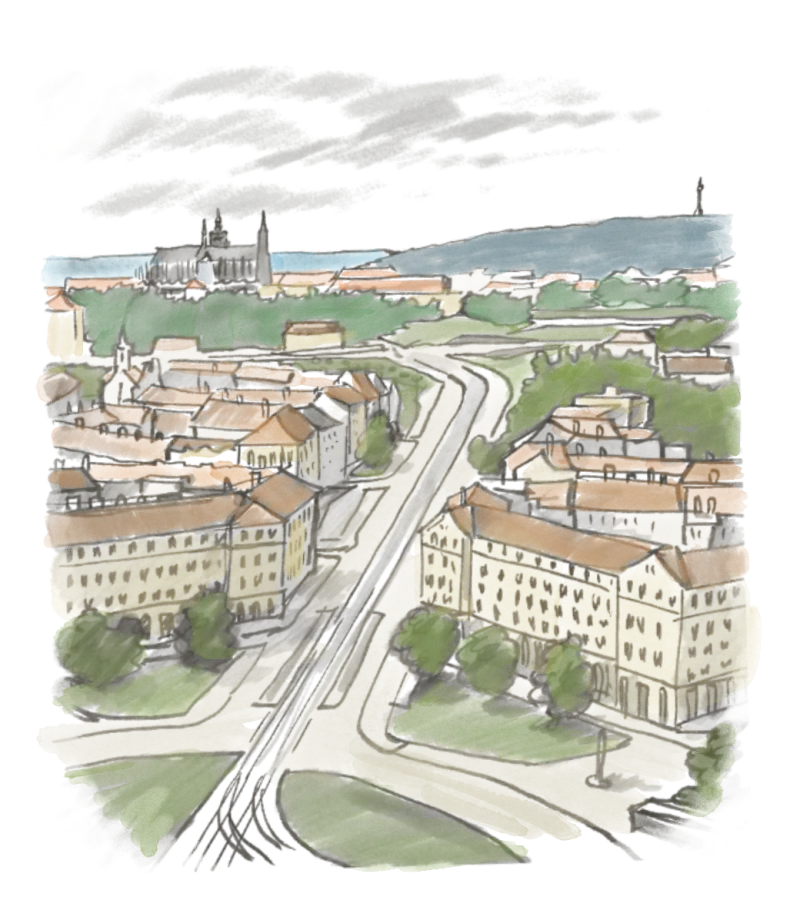
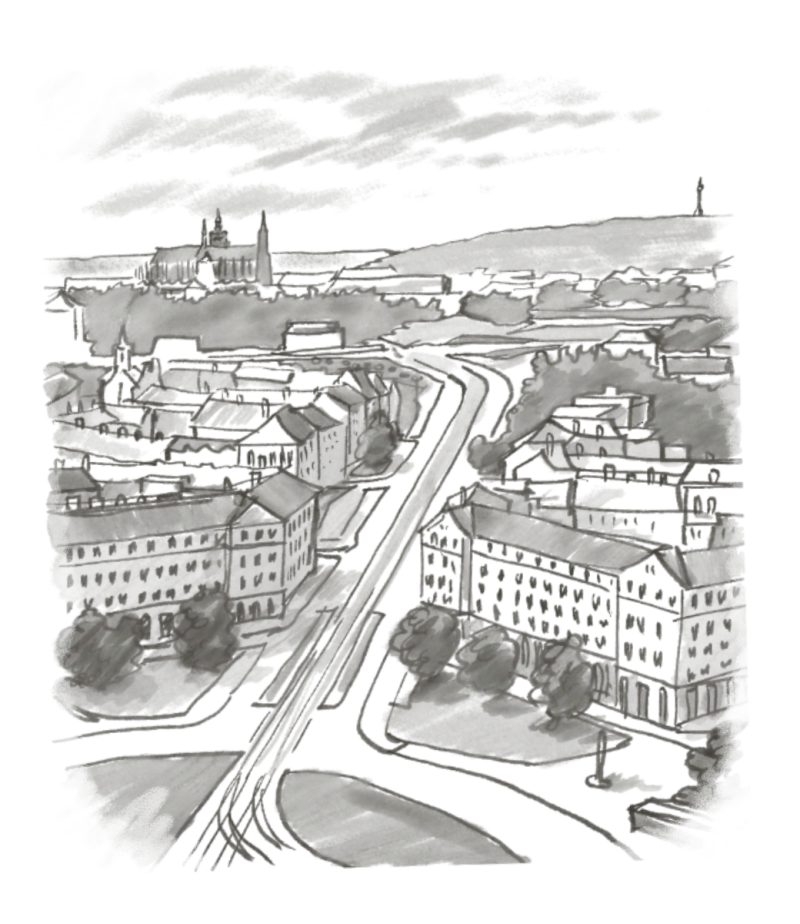
public page design updates

Changed region(s): [[0.0312, 0.2121, 0.9688, 0.9697], [0.3438, 0.697, 0.375, 0.7273], [0.25, 0.2727, 0.2812, 0.303]]

diff --git a/src/components/public/DrawingPicker.vue b/src/components/public/DrawingPicker.vue
@@ -16,7 +16,7 @@ const hero = defineModel('hero', { type: Object, default: () => ({}) })
 const emit = defineEmits(['edit-trail'])
 
 const HERO_SIZES = {
-  narrow: 'jako teď (960 px)',
+  narrow: 'úzké (960 px)',
   text: 'na šířku textu',
   bleed: 'přes celou šířku',
 }
@@ -51,9 +51,11 @@ const open = ref(false)
 
 // Colour intensity of the photos (CSS saturate(), 1 = as taken), applied
 // through --photo-saturation on the page root.
-const saturation = ref(1)
+// Matches the default in PolaroidPhoto.
+const PHOTO_SATURATION = 0.95
+const saturation = ref(PHOTO_SATURATION)
 try {
-  saturation.value = Number(localStorage.getItem(SATURATION_KEY)) || 1
+  saturation.value = Number(localStorage.getItem(SATURATION_KEY)) || PHOTO_SATURATION
 } catch {
   // Private window.
 }
@@ -133,7 +135,7 @@ function side(slot) {
 function reset() {
   overrides.value = {}
   hero.value = {}
-  saturation.value = 1
+  saturation.value = PHOTO_SATURATION
 }
 </script>
 

diff --git a/src/components/public/HomeHero.vue b/src/components/public/HomeHero.vue
@@ -12,12 +12,12 @@ import grey2200 from '@/assets/public/skaly-sede-2200.webp'
 // (DrawingPicker); the drawing (open space above the rocks) is never cropped.
 const props = defineProps({
   // 'narrow' (960 px) | 'text' (the text column) | 'bleed' (edge to edge, ≤ 1600 px)
-  size: { type: String, default: 'narrow' },
+  size: { type: String, default: 'text' },
   // 'above' | 'sky' (in the sky, centred) | 'sky-right' (in the sky right of the
   // rocks) | 'split' (first line in the sky, second below the drawing)
   layout: { type: String, default: 'sky-right' },
   // 'colour' | 'grey' — the same drawing in colour or in pencil grey
-  palette: { type: String, default: 'colour' },
+  palette: { type: String, default: 'grey' },
 })
 
 const DRAWINGS = {

diff --git a/src/views/PublicHomeView.vue b/src/views/PublicHomeView.vue
@@ -61,14 +61,14 @@ const STORIES = [
   {
     id: 'cinnost',
     label: 'Co děláme',
-    defaultFile: 'pruvodce-2.png',
+    defaultFile: 'pruvodce-4.png',
     sketchSide: 'right',
     ...drawing(guide400, guide800),
   },
   {
     id: 'rok',
     label: 'Od schůzky k táboru',
-    defaultFile: 'rozcestnik-2.png',
+    defaultFile: 'rozcestnik-3.png',
     sketchSide: 'left',
     ...drawing(signpost400, signpost800),
   },
@@ -89,7 +89,7 @@ const STORIES = [
   {
     id: 'cil',
     label: 'Závěr (konec cesty)',
-    defaultFile: 'dejvice-3.png',
+    defaultFile: 'dejvice-2.png',
     sketchSide: 'left',
     ...drawing(dejvice400, dejvice800),
   },

diff --git a/src/components/public/PolaroidPhoto.vue b/src/components/public/PolaroidPhoto.vue
@@ -28,7 +28,7 @@ defineProps({
       :width="width"
       :height="height"
       loading="lazy"
-      class="block h-auto w-full [filter:saturate(var(--photo-saturation,1))]"
+      class="block h-auto w-full [filter:saturate(var(--photo-saturation,0.95))]"
     />
     <div v-else class="grid aspect-[4/3] w-full place-items-center bg-sand" aria-hidden="true">
       <svg

diff --git a/docs/DEPLOY.md b/docs/DEPLOY.md
@@ -4,17 +4,21 @@ The web is static files on the skauting.cz hosting (Apache + PHP, `zare.skauting
 
 ## Firebase project (once)
 
-1. Create the project, Blaze plan (Cloud Functions need it).
-2. Firestore and the Storage bucket in `europe-west3` (`processPhoto` runs in the bucket's region).
-3. Auth: enable the e-mail/password provider; add `zare.skauting.cz` to the authorized domains.
-4. Put the project id into `.firebaserc` (`default`).
-5. `functions/.env`: `APP_URL=https://zare.skauting.cz` (links in e-mails).
-6. `firebase deploy` — rules, indexes, Storage rules, functions.
-7. `.env.production` (gitignored): the `VITE_FIREBASE_*` values of the web app from Project settings → Your apps, and `VITE_USE_EMULATORS=false`. `npm run build` reads it over `.env`.
+1. Create the project (without Google Analytics), switch to the Blaze plan (Cloud Functions need it) and set a budget alert.
+2. Firestore (production mode) and the Storage bucket in `europe-west3` — the location can't be changed later; `processPhoto` runs in the bucket's region.
+3. Auth: enable the e-mail/password and Google providers; add `zare.skauting.cz` to the authorized domains (`localhost` is there already); Templates → template language Czech (password reset e-mail).
+4. Register a web app (Project settings → Your apps) and put its config into `.env.production` (gitignored) with `VITE_USE_EMULATORS=false`. `npm run build` reads it over `.env`.
+5. `.firebaserc`: add the project as the alias `prod` next to `default`. `default` stays `demo-zareweb`, so the emulators never touch production.
+6. `functions/.env.<project-id>`: `APP_URL=https://zare.skauting.cz` (links in e-mails; only loaded when deployed to that project).
+7. `firebase login`, `firebase deploy --project prod` — rules, indexes, Storage rules, functions. The first deploy enables the needed Google Cloud APIs and may have to be repeated after a few minutes; accept the offered Artifact Registry cleanup policy.
 
 Nothing has to be written into Firestore: missing `settings/*` documents fall back to the defaults in `functions/src/shared/`. Never run the `seed:*` scripts against production.
 
-**First admin:** register on the web, then in the Firebase console set `users/{uid}.role` to `admin`. Everyone else is approved in Administration.
+**Before uploading:** `npx vite --mode production` runs the dev server on localhost against the production project — register, try the functions, photos and skautIS (with `?vyvoj=1`, SPEC §4.8).
+
+**First admin:** register, then in the Firebase console set `users/{uid}.role` to `admin`. Everyone else is approved in Administration.
+
+After every change to rules, indexes or functions: `firebase deploy --project prod` (or `--only firestore`, `--only functions`, …).
 
 ## Upload
 
